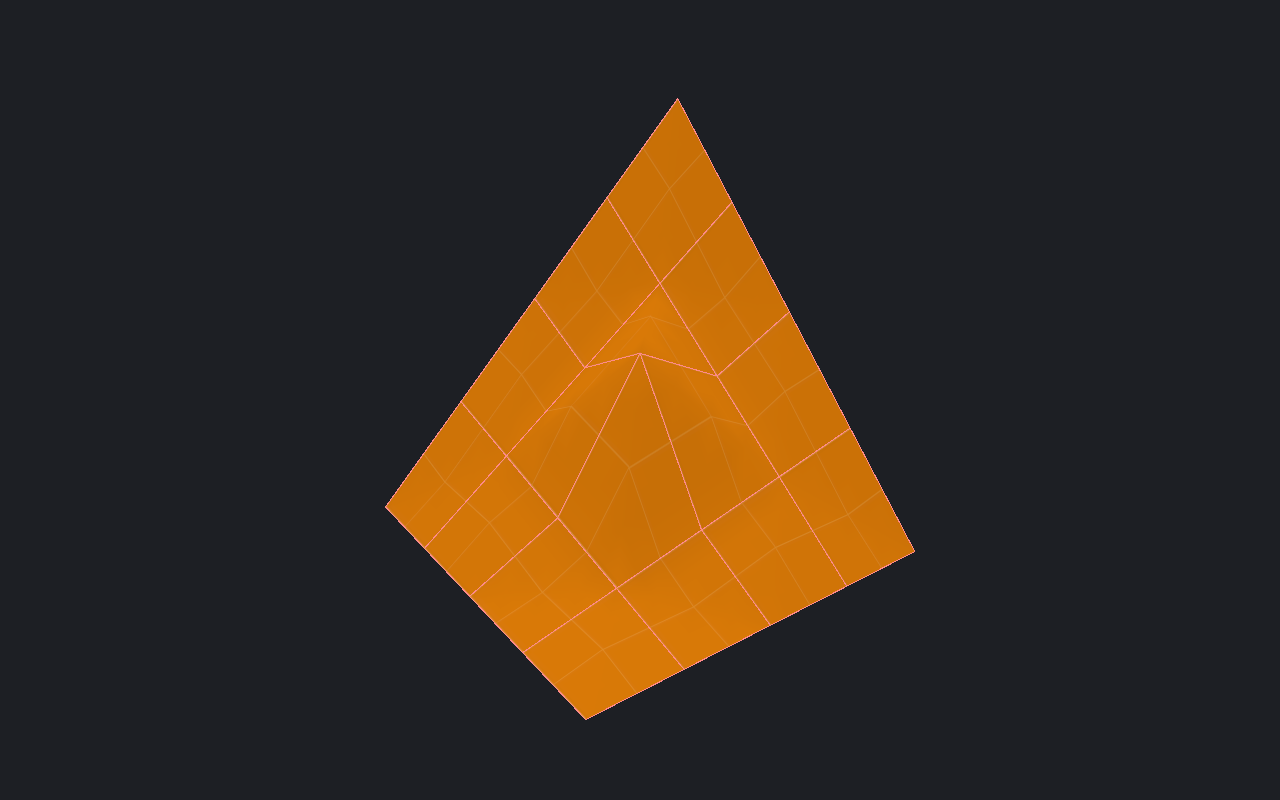
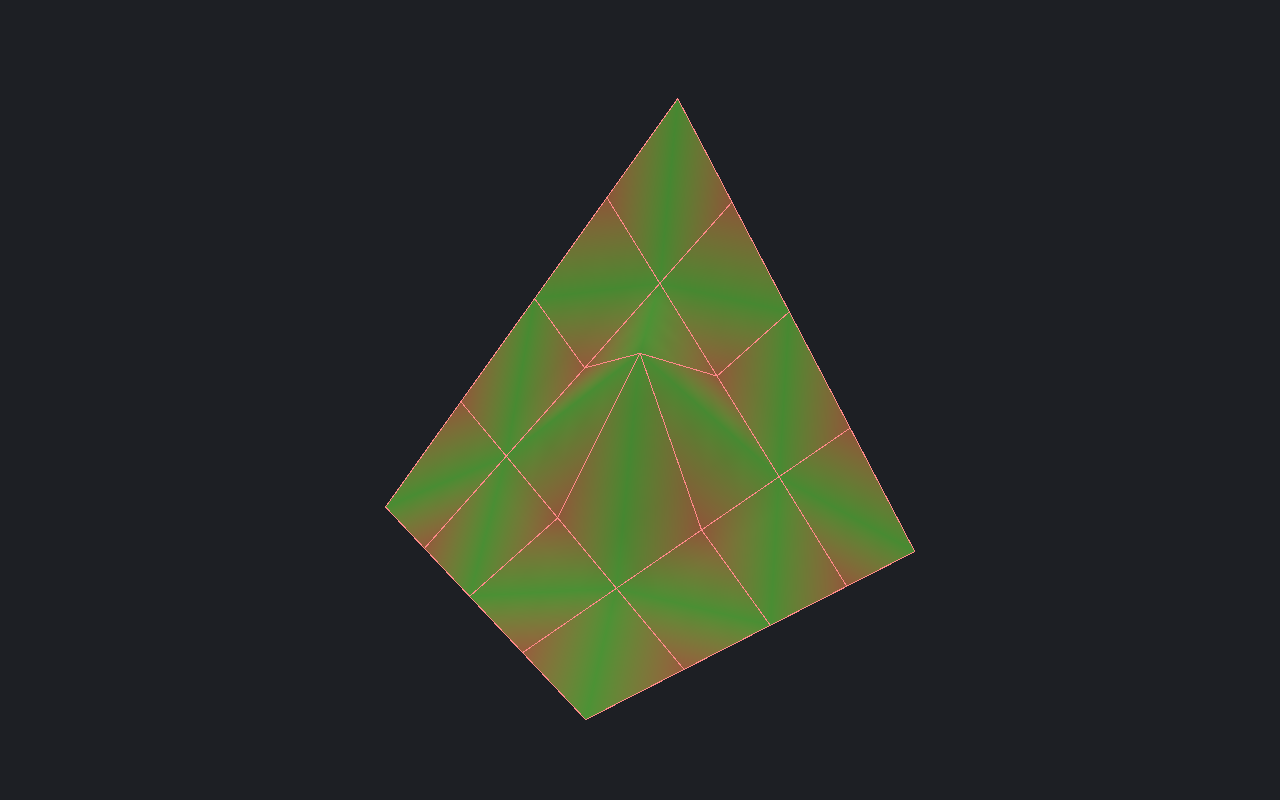
Preserve piecewise terrain paint through grid-cell cuts

Changed region(s): [[0.2812, 0.125, 0.7188, 0.9062]]

diff --git a/crates/editor-core/src/mcp/tools/geometry.rs b/crates/editor-core/src/mcp/tools/geometry.rs
@@ -543,7 +543,7 @@ impl EditorServer {
     }
 
     #[tool(
-        description = "Clip selected world or entity-child brushes, or whole brush entities, by normal/distance, three VMF-wound points, or a snapped planar line. Keep front (positive-normal arrow side), back or both. Non-crossing brushes and terrain sheets stay unchanged; point entities reject. Individual solid:n child targets preserve their entity and unselected siblings; whole entity:n targets include all children. A whole owner wins over its redundant child targets. terrain_mode uses the shared grid/flat choice when omitted; an explicit override updates that choice only after success. Grid is the default and never falls back to Flat. Flat retiles eligible convex power-2/3/4 terrain with a world-axis base cage and one exact planar height field along its base normal; sloped visible surfaces are supported. Integral alpha must follow one exact affine field; original and output packed alpha fields are verified under each native rounding profile. Original VMF/native triangle flags and secondary-surface alpha classes are preserved spatially. Each output triangle must overlap only one complete source-label class; incompatible boundaries refuse. Retained quads stay one power-2 patch when joins permit; triangles/pentagons use quad fans. The complete affected contact component must remain coplanar and flat with common orientation, exact native edge/corner samples and no LOD coarsening. Compatible connected components and repeated cuts are supported. Guarded static LightmappedGeneric base/detail or plain two-base WorldVertexTransition textures require exact affine base UVs and applicable native detail scaling. Both transition textures retain their original source guards. Exact, conditioned native cell-normal inputs must be certified; poor conditioning refuses rather than publishing collapsed normals. Curved/non-affine or tangential fields, partial or unsupported native contacts, overlaps, noncoplanar neighbors and unsupported materials refuse. Cells explicitly refines complete original grid cells into power-2 patches, supporting curved height-only terrain with world-axis rectangular bases. The plane must follow a complete original internal row/column, within the shared source/output/work caps. Authored, compiler and four native positions, original piecewise surface planes, affine integer paint, UVs and spatial triangle labels are certified. Every affected original must be a crossing replacement; unchanged terrain contacts refuse. Normals and runtime LOD are regenerated; no normal-bit or pixel parity is promised. In Grid mode, power-3/4 terrain on world or func_detail brushes supports original grid half-line cuts into two/four native power-2/3 patches without resampling. Power-4 row/column quarter-lines retain native power-2 leaves in crossed quadrants and power-3 leaves elsewhere, producing four, six or ten patches. Mixed outputs report output_power=null and ordered face_powers. Full/full and whole/half native joins are certified. Selected/output coarsened grids must preserve mapped masks, active vertices, alpha, fine collision/tag geometry and maximal render triangles, with exact native positions and plane separation in all four rounding modes. Unselected coarsened neighbors retain bitwise-identical complete native LOD state. Unsupported quarter-edge links, straddling native triangles, changed neighbor LOD, overlaps and incompatible bindings/metadata reject atomically. Visible instance references require a saved parent and fresh complete guarded assembly; child source changes or unsupported contents reject, while saved hidden references are omitted. Existing UVs/metadata survive; caps use material or inherit the first source material. Terrain carrier faces do not create sealed terrain walls. preview=true leaves document and undo untouched; inspect native face outputs, verified neighbors, side mappings and work with get_clip_preview and render_view, then commit or cancel."
+        description = "Clip selected world or entity-child brushes, or whole brush entities, by normal/distance, three VMF-wound points, or a snapped planar line. Keep front (positive-normal arrow side), back or both. Non-crossing brushes and terrain sheets stay unchanged; point entities reject. Individual solid:n child targets preserve their entity and unselected siblings; whole entity:n targets include all children. A whole owner wins over its redundant child targets. terrain_mode uses the shared grid/flat choice when omitted; an explicit override updates that choice only after success. Grid is the default and never falls back to Flat. Flat retiles eligible convex power-2/3/4 terrain with a world-axis base cage and one exact planar height field along its base normal; sloped visible surfaces are supported. Integral alpha must follow one exact affine field; original and output packed alpha fields are verified under each native rounding profile. Original VMF/native triangle flags and secondary-surface alpha classes are preserved spatially. Each output triangle must overlap only one complete source-label class; incompatible boundaries refuse. Retained quads stay one power-2 patch when joins permit; triangles/pentagons use quad fans. The complete affected contact component must remain coplanar and flat with common orientation, exact native edge/corner samples and no LOD coarsening. Compatible connected components and repeated cuts are supported. Guarded static LightmappedGeneric base/detail or plain two-base WorldVertexTransition textures require exact affine base UVs and applicable native detail scaling. Both transition textures retain their original source guards. Exact, conditioned native cell-normal inputs must be certified; poor conditioning refuses rather than publishing collapsed normals. Curved/non-affine or tangential fields, partial or unsupported native contacts, overlaps, noncoplanar neighbors and unsupported materials refuse. Cells explicitly refines complete original grid cells into power-2 patches, supporting curved height-only terrain with world-axis rectangular bases. The plane must follow a complete original internal row/column, within the shared source/output/work caps. Authored, compiler and four native positions, original piecewise surface planes, raw and four-profile packed integer paint fields on every original triangle, UVs and spatial labels are certified. Every affected original must be a crossing replacement; unchanged terrain contacts refuse. Normals and runtime LOD are regenerated; no normal-bit or pixel parity is promised. In Grid mode, power-3/4 terrain on world or func_detail brushes supports original grid half-line cuts into two/four native power-2/3 patches without resampling. Power-4 row/column quarter-lines retain native power-2 leaves in crossed quadrants and power-3 leaves elsewhere, producing four, six or ten patches. Mixed outputs report output_power=null and ordered face_powers. Full/full and whole/half native joins are certified. Selected/output coarsened grids must preserve mapped masks, active vertices, alpha, fine collision/tag geometry and maximal render triangles, with exact native positions and plane separation in all four rounding modes. Unselected coarsened neighbors retain bitwise-identical complete native LOD state. Unsupported quarter-edge links, straddling native triangles, changed neighbor LOD, overlaps and incompatible bindings/metadata reject atomically. Visible instance references require a saved parent and fresh complete guarded assembly; child source changes or unsupported contents reject, while saved hidden references are omitted. Existing UVs/metadata survive; caps use material or inherit the first source material. Terrain carrier faces do not create sealed terrain walls. preview=true leaves document and undo untouched; inspect native face outputs, verified neighbors, side mappings and work with get_clip_preview and render_view, then commit or cancel."
     )]
     pub(in crate::mcp) fn clip_brushes(
         &self,

diff --git a/crates/map-core/src/displacement/flat_clip/labels.rs b/crates/map-core/src/displacement/flat_clip/labels.rs
@@ -1,6 +1,7 @@
 use glam::DVec3;
 use source_formats::vmf::DispInfo;
 
+use super::paint::PaintField;
 use super::{FIELD_WORK, PlanarField, Work, invalid, orient, paint, same, triangles};
 use crate::{EditError, displacement::DisplacementMesh};
 
@@ -140,6 +141,7 @@ struct SourceTriangle {
     projected: Projected,
     label: Label,
     surface: Option<PlanarField>,
+    paint: Option<PaintField>,
 }
 
 pub(super) struct TriangleField {
@@ -150,6 +152,7 @@ pub(super) struct TriangleField {
     has_raw_tags: bool,
     has_secondary_surface: bool,
     certify_surface: bool,
+    uniform_alpha: Option<f64>,
 }
 
 impl TriangleField {
@@ -193,6 +196,23 @@ impl TriangleField {
             .ok_or_else(|| invalid("Terrain triangle labels require a world-axis base plane"))?;
         let coordinate = mesh.base_positions[0][axis];
         let axes = [(axis + 1) % 3, (axis + 2) % 3];
+        let uniform_alpha = if certify_surface {
+            work.consume(BASE_WORK * mesh.alphas.len())
+                .map_err(invalid)?;
+            let first = mesh.alphas[0];
+            if mesh.alphas.iter().all(|&alpha| alpha == first) {
+                if !(0.0..=255.0).contains(&first) || first.fract() != 0.0 {
+                    return Err(invalid(
+                        "Terrain paint requires integral alpha values from 0 to 255",
+                    ));
+                }
+                Some(first)
+            } else {
+                None
+            }
+        } else {
+            None
+        };
         let labels = read_labels(info, mesh, has_secondary_surface, work)?;
         work.consume(
             (TRIANGLE_WORK + usize::from(certify_surface) * 8 * FIELD_WORK) * labels.len(),
@@ -216,6 +236,15 @@ impl TriangleField {
                             )
                         })
                         .transpose()?,
+                    paint: (certify_surface && uniform_alpha.is_none())
+                        .then(|| {
+                            PaintField::triangle(
+                                triangle.map(|index| mesh.base_positions[index]),
+                                triangle.map(|index| mesh.alphas[index]),
+                                work,
+                            )
+                        })
+                        .transpose()?,
                 })
             })
             .collect::<Result<_, EditError>>()?;
@@ -227,6 +256,7 @@ impl TriangleField {
             has_raw_tags: info.triangle_tags.is_some(),
             has_secondary_surface,
             certify_surface,
+            uniform_alpha,
         })
     }
 
@@ -252,6 +282,15 @@ impl TriangleField {
                 "Terrain triangle labels must remain on their original base plane",
             ));
         }
+        if let Some(alpha) = self.uniform_alpha {
+            work.consume(BASE_WORK * child.alphas.len())
+                .map_err(invalid)?;
+            if child.alphas.iter().any(|&value| value != alpha) {
+                return Err(invalid(
+                    "Terrain output changed its constant source paint field",
+                ));
+            }
+        }
         let bounds = projected_bounds(&child.base_positions, self.axes);
         let candidates = self
             .source
@@ -274,6 +313,15 @@ impl TriangleField {
                     )
                 })
                 .transpose()?;
+            let paint = (self.certify_surface && self.uniform_alpha.is_none())
+                .then(|| {
+                    PaintField::triangle(
+                        triangle.map(|index| child.base_positions[index]),
+                        triangle.map(|index| child.alphas[index]),
+                        work,
+                    )
+                })
+                .transpose()?;
             let mut label = None;
             for source in &candidates {
                 if !projected.overlaps(&source.projected, self.axes, work)? {
@@ -287,6 +335,16 @@ impl TriangleField {
                     if !source_surface.matches(surface)? {
                         return Err(invalid(
                             "Terrain output triangle crosses an original surface crease",
+                        ));
+                    }
+                }
+                if let Some(source_paint) = &source.paint {
+                    let paint = paint
+                        .as_ref()
+                        .ok_or_else(|| invalid("Terrain triangle mapping lost its paint field"))?;
+                    if !source_paint.matches(paint, work)? {
+                        return Err(invalid(
+                            "Terrain output triangle changed an original raw or native packed paint field",
                         ));
                     }
                 }
@@ -323,6 +381,7 @@ impl TriangleField {
             power,
             base: child.base_positions.clone(),
             positions: self.certify_surface.then(|| child.positions.clone()),
+            alphas: self.certify_surface.then(|| child.alphas.clone()),
             labels,
             has_secondary_surface: self.has_secondary_surface,
         })
@@ -334,6 +393,7 @@ pub(super) struct Mapped {
     power: u32,
     base: Vec<DVec3>,
     positions: Option<Vec<DVec3>>,
+    alphas: Option<Vec<f64>>,
     labels: Vec<Label>,
     has_secondary_surface: bool,
 }
@@ -368,6 +428,18 @@ impl Mapped {
                     .any(|(&actual, &expected)| !same(actual, expected))
             {
                 return Err(invalid("Terrain mapped triangle surface changed"));
+            }
+        }
+        if let Some(alphas) = &self.alphas {
+            work.consume(BASE_WORK * alphas.len()).map_err(invalid)?;
+            if child.alphas.len() != alphas.len()
+                || child
+                    .alphas
+                    .iter()
+                    .zip(alphas)
+                    .any(|(actual, expected)| actual.to_bits() != expected.to_bits())
+            {
+                return Err(invalid("Terrain mapped triangle paint changed"));
             }
         }
         let actual = read_labels(info, child, self.has_secondary_surface, work)?;

diff --git a/crates/map-core/src/displacement/flat_clip/paint.rs b/crates/map-core/src/displacement/flat_clip/paint.rs
@@ -5,6 +5,7 @@ use super::{FIELD_WORK, PlanarField, Work, invalid};
 use crate::{EditError, displacement::DisplacementMesh};
 
 const PACK_WORK: usize = 8;
+const ALPHA_WORK: usize = 8;
 const MATERIAL_ALPHA_THRESHOLD: f32 = 382.5;
 
 #[derive(Clone, Copy)]
@@ -43,6 +44,18 @@ pub(super) struct PaintField {
 }
 
 impl PaintField {
+    pub(super) fn triangle(
+        base: [DVec3; 3],
+        alphas: [f64; 3],
+        work: &mut Work,
+    ) -> Result<Self, EditError> {
+        Self::new(
+            [base[0], base[1], base[2], base[0]],
+            [alphas[0], alphas[1], alphas[2], alphas[0]],
+            work,
+        )
+    }
+
     pub(super) fn new(
         base: [DVec3; 4],
         values: [f64; 4],
@@ -78,6 +91,19 @@ impl PaintField {
         Ok(Self { raw, packed })
     }
 
+    pub(super) fn matches(&self, other: &Self, work: &mut Work) -> Result<bool, EditError> {
+        work.consume(5 * FIELD_WORK).map_err(invalid)?;
+        for (first, second) in std::iter::once(&self.raw)
+            .chain(&self.packed)
+            .zip(std::iter::once(&other.raw).chain(&other.packed))
+        {
+            if !first.0.matches(&second.0)? {
+                return Ok(false);
+            }
+        }
+        Ok(true)
+    }
+
     pub(super) fn alpha(&self, base: DVec3) -> Result<f64, EditError> {
         let value = self.raw.value(base)?;
         alpha(value)?;
@@ -90,13 +116,7 @@ impl PaintField {
         data: &bsp::Displacements,
         work: &mut Work,
     ) -> Result<(), EditError> {
-        if mesh.base_positions.len() != mesh.alphas.len()
-            || data.vertices.len() != mesh.alphas.len()
-        {
-            return Err(invalid(
-                "Terrain paint samples must match their native grid",
-            ));
-        }
+        validate_data(mesh, data, work)?;
         work.consume((5 * FIELD_WORK + 4 * PACK_WORK) * mesh.alphas.len())
             .map_err(invalid)?;
         for ((&base, &value), vertex) in mesh
@@ -105,8 +125,7 @@ impl PaintField {
             .zip(&mesh.alphas)
             .zip(&data.vertices)
         {
-            let encoded = alpha(value)?;
-            if self.alpha(base)? != value || vertex.alpha.to_bits() != encoded.to_bits() {
+            if self.raw.value(base)? != value {
                 return Err(invalid(
                     "Flat terrain authored and native alpha must share one exact affine field",
                 ));
@@ -124,6 +143,33 @@ impl PaintField {
         }
         Ok(())
     }
+}
+
+pub(super) fn validate_data(
+    mesh: &DisplacementMesh,
+    data: &bsp::Displacements,
+    work: &mut Work,
+) -> Result<(), EditError> {
+    if !mesh.size.checked_mul(mesh.size).is_some_and(|count| {
+        mesh.positions.len() == count
+            && mesh.base_positions.len() == count
+            && mesh.alphas.len() == count
+            && data.vertices.len() == count
+    }) {
+        return Err(invalid(
+            "Terrain paint samples must match their native grid",
+        ));
+    }
+    work.consume(ALPHA_WORK * mesh.alphas.len())
+        .map_err(invalid)?;
+    for (&value, vertex) in mesh.alphas.iter().zip(&data.vertices) {
+        if vertex.alpha.to_bits() != alpha(value)?.to_bits() {
+            return Err(invalid(
+                "Terrain authored and native alpha encodings must match exactly",
+            ));
+        }
+    }
+    Ok(())
 }
 
 pub(super) fn triangle_class(values: [f32; 3]) -> Result<bool, EditError> {

diff --git a/crates/editor-core/src/mcp/mod.rs b/crates/editor-core/src/mcp/mod.rs
@@ -140,7 +140,7 @@ preview_hollow builds inward/outward wall shells with shared geometry and cavity
 clip_brushes cuts brushes by a normal/distance, three points, or a snapped planar line. \
 Use preview: true, inspect get_clip_preview and render_view, then commit_clip_preview \
 or cancel_clip_preview. Keep front (arrow side), back, or both. World/detail terrain supports certified power-3/4 middle-grid and power-4 quarter-grid cuts, including coarsened sources; incompatible native geometry or topology refuses. \
-set_clip_terrain_mode chooses grid (Existing grid, default), flat (Retile flat terrain) or cells (Retile grid cells). clip_brushes terrain_mode overrides one validated request and updates the shared choice only on success. Flat explicitly retiles eligible coplanar power-2/3/4 quad terrain with exact planar height fields, including slopes, exact affine integral paint and preserved spatial triangle labels, guarded LightmappedGeneric or plain WorldVertexTransition materials and exact base/detail UVs; Cells explicitly refines whole original cells for curved height-only sources along a complete existing grid row/column. It preserves the exact original piecewise surface, native positions/UV/paint and spatial labels; unchanged terrain contacts refuse, and normals/runtime LOD are regenerated. Grid failures never switch modes. Mode changes cancel the owned cut draft without changing map/history. \
+set_clip_terrain_mode chooses grid (Existing grid, default), flat (Retile flat terrain) or cells (Retile grid cells). clip_brushes terrain_mode overrides one validated request and updates the shared choice only on success. Flat explicitly retiles eligible coplanar power-2/3/4 quad terrain with exact planar height fields, including slopes, exact affine integral paint and preserved spatial triangle labels, guarded LightmappedGeneric or plain WorldVertexTransition materials and exact base/detail UVs; Cells explicitly refines whole original cells for curved height-only sources along a complete existing grid row/column. It preserves the exact original piecewise surface, native positions/UVs, original piecewise integer paint fields and spatial labels; unchanged terrain contacts refuse, and normals/runtime LOD are regenerated. Grid failures never switch modes. Mode changes cancel the owned cut draft without changing map/history. \
 get_clip_handles and set_clip_handle_options expose shared cut-plane movement/rotation. Begin with begin_clip_drag and the latest clipping snapshot; update_clip_drag takes the returned token and pointer or total amounts. finish_clip_drag only finishes positioning; commit_clip_preview explicitly applies the cut. cancel_clip_drag restores the starting plane. \
 Discover entity classes with search_entity_classes and get_entity_class. create_entity \
 applies FGD defaults, including light brightness; set_entity_properties validates declared \

diff --git a/crates/map-core/src/displacement/flat_clip/cells.rs b/crates/map-core/src/displacement/flat_clip/cells.rs
@@ -2,10 +2,10 @@ use glam::DVec3;
 use source_formats::vmf::Solid;
 
 use super::{
-    Admitted, CUT_EPSILON, Child, Context, Exact, FIELD_WORK, Keep, PaintField, Request, SIZE,
-    TRIANGLES, TerrainPlan, TriangleField, VERTICES, Work, admit, carrier_base,
-    certify_height_normals, connections, convex, data, invalid, native, orient, reconstructed,
-    region, same, stored, uv, weighted,
+    Admitted, CUT_EPSILON, Child, Context, Exact, FIELD_WORK, Keep, Request, SIZE, TRIANGLES,
+    TerrainPlan, TriangleField, VERTICES, Work, admit, carrier_base, certify_height_normals,
+    connections, convex, data, invalid, native, orient, paint, reconstructed, region, same, stored,
+    uv, weighted,
 };
 use crate::displacement::{grid_clip::grid_line, resample};
 use crate::surface::FaceId;
@@ -35,7 +35,6 @@ impl Cut {
 
 struct Prepared<'a> {
     source: Admitted<'a>,
-    paint: PaintField,
     axis: usize,
     axes: [usize; 2],
     sign: i128,
@@ -132,13 +131,11 @@ fn prepare<'a>(
             }
         }
     }
-    let paint = PaintField::new(corners, indices.map(|index| mesh.alphas[index]), work)?;
-    paint.certify(mesh, &source.data, work)?;
+    paint::validate_data(mesh, &source.data, work)?;
     let cut = cut(&source, plane, work)?;
     certify_height_normals(&source.data, &source.positions, axis, work)?;
     Ok(Some(Prepared {
         source,
-        paint,
         axis,
         axes,
         sign,
@@ -346,7 +343,7 @@ pub(crate) fn plan(
                     }
                 }
             }
-            prepared.paint.certify(&mesh, &data, work)?;
+            paint::validate_data(&mesh, &data, work)?;
             let mapped = labels.map(&mesh, work)?;
             let info = part.sides[side_index].displacement.as_mut().unwrap();
             info.triangle_tags = mapped.tags.clone();

diff --git a/docs/status.md b/docs/status.md
@@ -35,7 +35,7 @@ Scores reflect supported workflows and open gaps. Amber counts only the implemen
 | [Working region](working-region.md) | Temporary boxes, camera-following, draw distance and shared object-query rules for display and picking; one Clear restores the view. | Whole owners; unresolved spatial bounds stay visible. Authored query rules suppress native compiled layers. |
 | [Keyboard shortcuts](keyboard-shortcuts.md) | 36 commands, including file/clipboard and held camera directions; logical/physical keys, Ctrl/Shift/Alt/Meta, two-stroke sequences and shared MCP resolution/navigation. | Two slots per command; camera directions use one stroke. Focused controls and the operating system may consume combinations. |
 | [Brushes](brushes.md) | Shapes, checked block creation/import, handles, exact transforms, grid snapping, fixed/attached pivots, terrain mirror/shear and supported point-placement transforms. | Unknown point semantics and unrepresentable model/instance deformation; general surface interpolation. |
-| [Brush tools](brush-tools.md) | Hollow, carve with explicit cut-material policies, clip individual or whole-owner brushes, native world/detail terrain middle/quarter-grid cuts with checked native precision, mapped selected/output LOD, full/half neighbors, guarded instance context and unchanged coarsened neighbors; explicit power-2/3/4 planar height-field quad retiling, including slopes, and repeated cuts across compatible coplanar flat components, with exact affine integer paint, guarded static base/detail or plain two-layer textures, spatially preserved triangle flags/collision materials and exact UV fields; explicit whole-cell curved terrain cuts along original grid lines; convex merge and polygon extrusion. | Cuts through partial curved cells, nonlinear paint, incompatible triangle-region boundaries, noncoplanar or LOD-coarsened flat contacts, unsupported material providers, uncertain native arithmetic, quarter-edge links, changed LOD geometry or neighbor state, concave merge and holes. |
+| [Brush tools](brush-tools.md) | Hollow, carve with explicit cut-material policies, clip individual or whole-owner brushes, native world/detail terrain middle/quarter-grid cuts with checked native precision, mapped selected/output LOD, full/half neighbors, guarded instance context and unchanged coarsened neighbors; explicit power-2/3/4 planar height-field quad retiling, including slopes, and repeated cuts across compatible coplanar flat components, with exact affine integer paint, guarded static base/detail or plain two-layer textures, spatially preserved triangle flags/collision materials and exact UV fields; explicit whole-cell curved terrain cuts with exact nonlinear integer paint along original grid lines; convex merge and polygon extrusion. | Cuts through partial curved cells, non-grid cuts on nonlinear paint, incompatible triangle-region boundaries, noncoplanar or LOD-coarsened flat contacts, unsupported material providers, uncertain native arithmetic, quarter-edge links, changed LOD geometry or neighbor state, concave merge and holes. |
 | [Components](components.md) | Move, rotate, scale, weld, split and ridges; free face cuts with interior endpoints and crossings, saved triangle plans, explicit piece UV axes, convex materialization and supported cubemap/order remapping. | Terrain cuts, holes, nonmanifold topology and other face-binding remaps. |
 | [Materials](textures.md) | Grouped browsing, prefix/regex and resolved-shader filters, actual second blend-image inspection, winning-source filters, maps-path exclusion, favorites, mapping, painting, wrapping, replacement, saved named atlas regions, automatic face-island packing, padded image fitting with coplanar continuity, face lighting and checked native texture mip chains. | Full native shader preview. |
 | [Normal maps](normal-maps.md) | Supported flat-brush normal textures. | Terrain/model normal maps and special encodings. |

diff --git a/docs/brush-tools.md b/docs/brush-tools.md
@@ -132,10 +132,11 @@ Cut curved terrain along a complete existing row or column.
 6. Inspect the patches, then click **Apply cut**.
 
 Each retained original cell becomes one power-2 patch. The original piecewise
-surface, UVs, paint and triangle labels must stay exact. Normals and runtime LOD
-are regenerated. This mode does not cut through part of an original cell.
+surface, UVs, paint and triangle labels must stay exact. Nonlinear paint is
+allowed when each new triangle retains its original raw and packed blend fields.
+Normals and runtime LOD are regenerated. This mode does not cut through part of an original cell.
 
-![A curved terrain sheet retiles into native grid-cell patches](images/terrain-cell-cut.png)
+![Painted curved terrain retains its blend through grid-cell cuts](images/terrain-cell-cut.png)
 
 ## Limits
 
@@ -179,8 +180,9 @@ are regenerated. This mode does not cut through part of an original cell.
   and unsupported resources reject. Changed source images or materials require
   another preview before Apply.
 - **Retile grid cells** requires world-axis rectangular bases. Displacement
-  can vary only along the base normal. Paint uses the same affine integer and
-  native texture rules as **Retile flat terrain**. Every touching original patch
+  can vary only along the base normal. Paint samples must stay integral and
+  preserve each original triangle's raw and packed blend fields. Native texture
+  rules match **Retile flat terrain**. Every touching original patch
   must also be cut in the operation; unchanged contacts reject. No affected LOD
   coarsening, tangential fields or uncertain native normal inputs.
   Each retained cell adds 32 native triangles. Powers 2–4 are subject to the

diff --git a/docs/mcp.md b/docs/mcp.md
@@ -829,7 +829,11 @@ rectangular bases and displacement only along the base normal. The requested
 plane must follow a complete internal original row or column. Each retained
 whole original cell becomes one power-2 patch. It certifies authored, compiler
 and all four native positions, the original piecewise surface planes, exact UVs,
-affine integer paint and spatial triangle labels. It never approximates a crease.
+piecewise integer paint and spatial triangle labels. Nonlinear source paint is
+allowed only when every overlapping original and output triangle has the same
+raw alpha and four native packed-alpha functions; vertex equality alone is
+insufficient. Unrepresentable inserted alpha or changed physical regions reject.
+It never approximates a crease.
 Every affected original must be a crossing replacement; unchanged external
 terrain contacts reject. Existing guarded instance, native connection, capacity
 and no-LOD rules remain. Normals and runtime LOD are regenerated. Retained cells

diff --git a/README.md b/README.md
@@ -58,7 +58,7 @@ Menus, a tool rail, a selection-driven Inspector and a live Agent feed. See [Edi
 
 | [Carved openings](docs/brush-tools.md#carve) | [Clip planes](docs/brush-tools.md#clip) |
 | --- | --- |
-| ![An arch cut through a brick wall](docs/images/carved-doorway.png) | ![A curved terrain cut into native cell patches](docs/images/terrain-cell-cut.png) |
+| ![An arch cut through a brick wall](docs/images/carved-doorway.png) | ![Painted curved terrain cut into native cell patches](docs/images/terrain-cell-cut.png) |
 | Subtract shapes to form doors and passages. | Cut brushes, planar surfaces and curved terrain. |
 
 | [Component editing](docs/components.md) | [Arrays and surface scatter](docs/repeated-placement.md) |

diff --git a/docs/terrain.md b/docs/terrain.md
@@ -214,7 +214,7 @@ entity. The cut retains the owner and unselected siblings.
 
 Choose [**Retile grid cells**](brush-tools.md#retile-grid-cells) to cut curved
 terrain at any complete original row or column, including power 2. It refines
-whole cells and requires exact native geometry, paint and labels. Unchanged
+whole cells and requires exact native geometry, piecewise integer paint and labels. Unchanged
 terrain contacts reject; normals and runtime LOD are regenerated.
 [**Retile flat terrain**](brush-tools.md#retile-flat-terrain) supports non-grid
 cuts on eligible flat or sloped planar surfaces.
